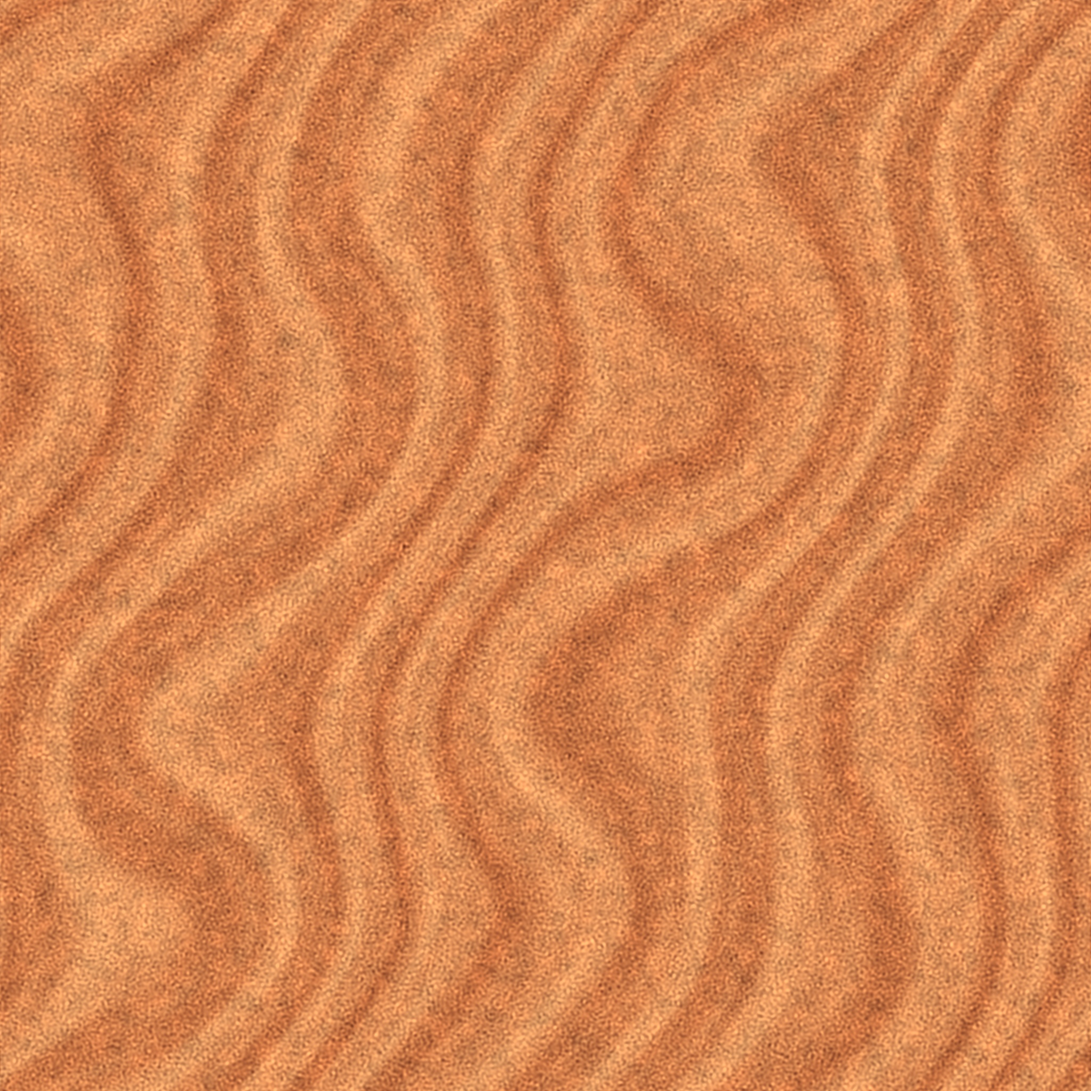
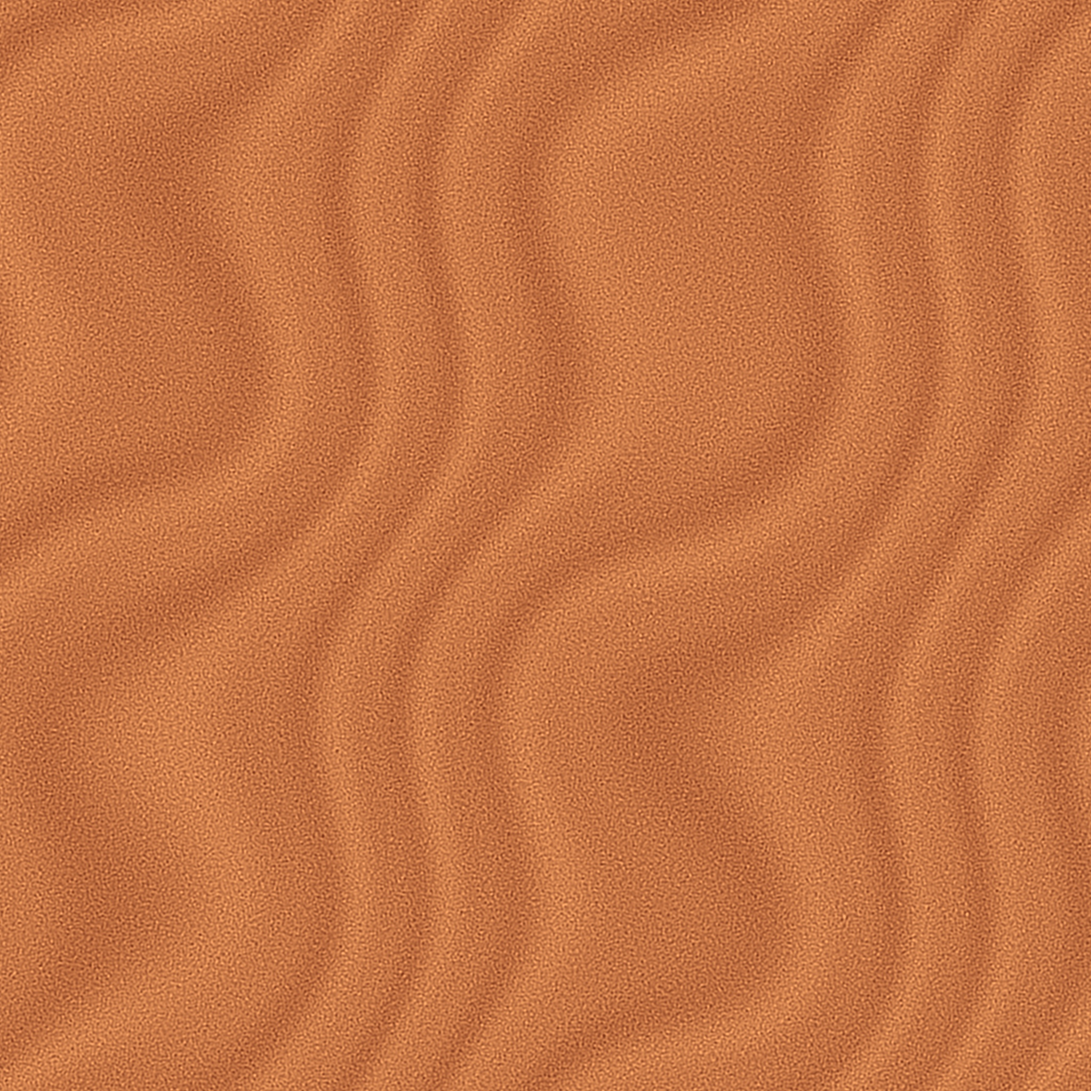
feat(scene4): add ray-marched soft cast shadows to dunes and eliminate abrupt ridge cut

diff --git a/Scene4.cpp b/Scene4.cpp
@@ -499,41 +499,65 @@ static float duneFBM(float x, float z, int oct = 3) {
     return val;
 }
 
-static float evaluateDuneHeight(float x, float z) {
+static float evaluateMacroDuneHeight(float x, float z) {
     if (z < 5.25f) return -0.74f;
 
-    // Domain warp creates organic meandering desert dune wind flows
-    float warp = duneFBM(x * 0.012f, z * 0.012f, 3) * 16.0f;
+    float warp = duneFBM(x * 0.010f, z * 0.010f, 3) * 18.0f;
     float wx = x + warp;
-    float wz = z + warp * 0.45f;
+    float wz = z + warp * 0.40f;
 
-    // 1. Primary Transverse Desert Dunes (Large sweeping waves with sharp knife-edge slipface crests)
-    float u1 = wx * 0.032f + wz * 0.020f;
+    float u1 = wx * 0.026f + wz * 0.016f;
     float s1 = sinf(u1);
-    float d1 = (s1 > 0.0f) ? (powf(s1, 0.9f) * 6.0f) : (-powf(-s1, 1.8f) * 3.4f);
+    float d1 = s1 * 5.4f + (s1 * s1 * s1) * 1.8f;
 
-    // 2. Secondary Barchan Crescent Dunes (Interlocking wind ripples with aerodynamic curvature)
-    float u2 = wx * 0.065f - wz * 0.038f;
-    float d2 = sinf(u2 + sinf(u1 * 1.5f) * 0.5f) * 2.2f;
+    float u2 = wx * 0.052f - wz * 0.028f;
+    float s2 = sinf(u2 + sinf(u1 * 1.4f) * 0.45f);
+    float d2 = s2 * 2.6f;
 
-    // 3. Fine Aeolian Wind Ripples on the sand surface
-    float r1 = sinf(x * 0.32f + z * 0.22f) * 0.20f;
-    float r2 = cosf(x * 0.65f - z * 0.42f) * 0.10f;
-
-    // 4. Distant Epic Mountain Ridge & Rim
-    float mtn = 0.0f;
-    if (z > 72.0f) {
-        float fz = (z - 72.0f) / 160.0f;
-        float r_noise = 1.0f - fabsf(duneNoise2D(x * 0.016f, z * 0.010f) * 2.0f - 1.0f);
-        mtn = (r_noise * 34.0f + sinf(x * 0.022f) * 14.0f + 16.0f) * fz;
+    float distDunes = 0.0f;
+    if (z > 60.0f) {
+        float fz = (z - 60.0f) / 160.0f;
+        float hd1 = sinf(wx * 0.014f + 0.6f) * 14.0f;
+        float hd2 = cosf(wz * 0.010f + wx * 0.008f) * 10.0f;
+        float hd3 = sinf(wx * 0.028f - wz * 0.016f) * 6.0f;
+        distDunes = (hd1 + hd2 + hd3 + 18.0f) * fz;
     }
 
-    float duneH = d1 + d2 + r1 + r2 + mtn - 2.1f;
-
-    // Smooth transition from ramp threshold (Z=5.25m, Y=-0.74m)
+    float duneH = d1 + d2 + distDunes - 2.0f;
     float t = clampf((z - 5.25f) / 9.5f, 0.0f, 1.0f);
     float blend = t * t * (3.0f - 2.0f * t);
     return -0.74f * (1.0f - blend) + duneH * blend;
+}
+
+static float evaluateDuneHeight(float x, float z) {
+    if (z < 5.25f) return -0.74f;
+
+    float baseH = evaluateMacroDuneHeight(x, z);
+
+    // Fine Aeolian Wind Ripples on the sand surface
+    float r1 = sinf(x * 0.28f + z * 0.18f) * 0.18f;
+    float r2 = cosf(x * 0.55f - z * 0.35f) * 0.08f;
+
+    float t = clampf((z - 5.25f) / 9.5f, 0.0f, 1.0f);
+    float blend = t * t * (3.0f - 2.0f * t);
+    return baseH + (r1 + r2) * blend;
+}
+
+static float computeDuneShadow(float x, float y, float z, float sunDx, float sunDy, float sunDz) {
+    float shadow = 1.0f;
+    float rayDist = 0.5f;
+    for (int step = 0; step < 28; ++step) {
+        float rx = x + sunDx * rayDist;
+        float rz = z + sunDz * rayDist;
+        float ry = y + sunDy * rayDist;
+        float h = evaluateMacroDuneHeight(rx, rz);
+        float diff = h - ry;
+        float s = clampf(0.5f - diff * 0.35f, 0.0f, 1.0f);
+        if (s < shadow) shadow = s;
+        if (shadow <= 0.0f) { shadow = 0.0f; break; }
+        rayDist += 0.8f + step * 0.04f;
+    }
+    return shadow * shadow * (3.0f - 2.0f * shadow);
 }
 
 static void buildDuneMesh() {
@@ -557,12 +581,17 @@ static void buildDuneMesh() {
     glMaterialfv(GL_FRONT_AND_BACK, GL_SPECULAR, matSpec);
     glMaterialf(GL_FRONT_AND_BACK, GL_SHININESS, 22.0f);
 
-    const int GRID_X = 300;
-    const int GRID_Z = 280;
+    const int GRID_X = 360;
+    const int GRID_Z = 320;
     const float MIN_X = -180.0f, MAX_X = 180.0f;
     const float MIN_Z = 5.25f,   MAX_Z = 320.0f; // STRICTLY starts at ramp tip: ZERO sand inside ship!
     const float DX = (MAX_X - MIN_X) / (float)GRID_X;
     const float DZ = (MAX_Z - MIN_Z) / (float)GRID_Z;
+
+    // Fixed sun directional vector for cast shadows (sun is at { 1.5f, 14.0f, 55.0f })
+    const float sunDx = 0.0264f;
+    const float sunDy = 0.2466f;
+    const float sunDz = 0.9687f;
 
     for (int iz = 0; iz < GRID_Z; ++iz) {
         float z0 = MIN_Z + iz * DZ;
@@ -576,7 +605,7 @@ static void buildDuneMesh() {
             float y1 = evaluateDuneHeight(x, z1);
 
             // Analytic central difference normal at (x, z0)
-            float eps = 0.18f;
+            float eps = 0.22f;
             float hL0 = evaluateDuneHeight(x - eps, z0);
             float hR0 = evaluateDuneHeight(x + eps, z0);
             float hD0 = evaluateDuneHeight(x, z0 - eps);
@@ -596,18 +625,22 @@ static void buildDuneMesh() {
             float ny1 = 1.0f;
             normalize3(nx1, ny1, nz1);
 
-            // Multi-tone sand color modulation:
-            // Sunward facing slopes: luminous golden ochre
-            // Leeward shadow slopes: deep rich amber red
-            float sunDot0 = clampf(nx0 * 0.25f + ny0 * 0.45f + nz0 * 0.85f, 0.0f, 1.0f);
-            float r0 = lerpf(0.68f, 1.25f, sunDot0);
-            float g0 = lerpf(0.34f, 0.88f, sunDot0);
-            float b0 = lerpf(0.19f, 0.54f, sunDot0);
+            // Sun illumination & ray-marched cast shadows
+            float sunDot0 = clampf(nx0 * sunDx + ny0 * sunDy + nz0 * sunDz, 0.0f, 1.0f);
+            float shadow0 = computeDuneShadow(x, y0 + 0.06f, z0, sunDx, sunDy, sunDz);
+            float light0 = sunDot0 * (0.18f + 0.82f * shadow0);
 
-            float sunDot1 = clampf(nx1 * 0.25f + ny1 * 0.45f + nz1 * 0.85f, 0.0f, 1.0f);
-            float r1 = lerpf(0.68f, 1.25f, sunDot1);
-            float g1 = lerpf(0.34f, 0.88f, sunDot1);
-            float b1 = lerpf(0.19f, 0.54f, sunDot1);
+            float r0 = lerpf(0.52f, 1.28f, light0);
+            float g0 = lerpf(0.26f, 0.86f, light0);
+            float b0 = lerpf(0.15f, 0.52f, light0);
+
+            float sunDot1 = clampf(nx1 * sunDx + ny1 * sunDy + nz1 * sunDz, 0.0f, 1.0f);
+            float shadow1 = computeDuneShadow(x, y1 + 0.06f, z1, sunDx, sunDy, sunDz);
+            float light1 = sunDot1 * (0.18f + 0.82f * shadow1);
+
+            float r1 = lerpf(0.52f, 1.28f, light1);
+            float g1 = lerpf(0.26f, 0.86f, light1);
+            float b1 = lerpf(0.15f, 0.52f, light1);
 
             float u0 = x * 0.08f;
             float v0 = z0 * 0.08f;
